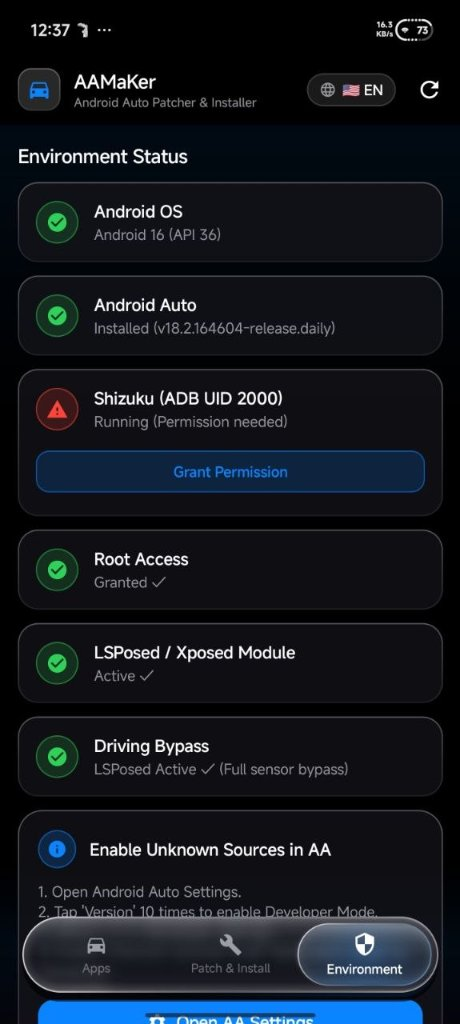
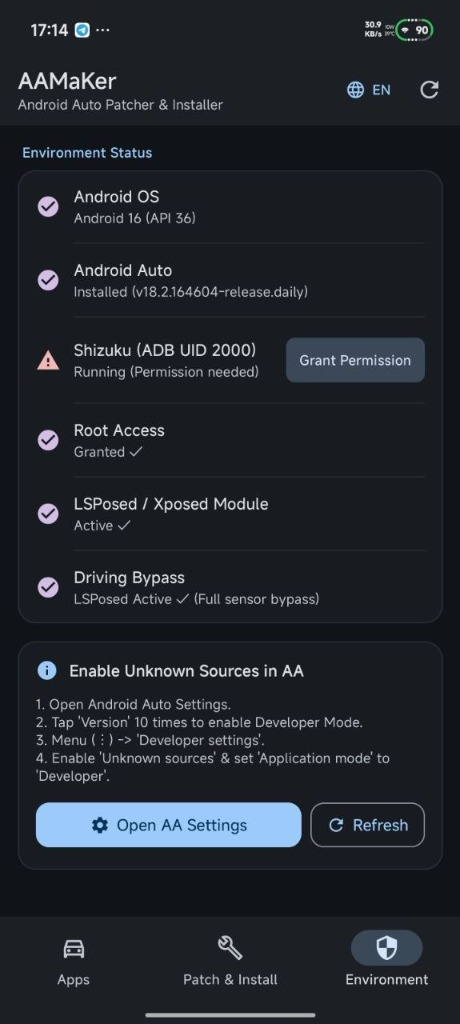
update readme

diff --git a/README.md b/README.md
@@ -7,9 +7,11 @@
 ## 📱 Screenshots
 
 <p align="center">
-  <img src="screenshots/patch_and_install.jpg" alt="Patch & Install Screen" width="45%" />
+  <img src="screenshots/apps_list.jpg" alt="Apps List Screen" width="30%" />
   &nbsp;&nbsp;
-  <img src="screenshots/environment_status.jpg" alt="Environment Status Screen" width="45%" />
+  <img src="screenshots/patch_and_install.jpg" alt="Patch & Install Screen" width="30%" />
+  &nbsp;&nbsp;
+  <img src="screenshots/environment_status.jpg" alt="Environment Status Screen" width="30%" />
 </p>
 
 ---
